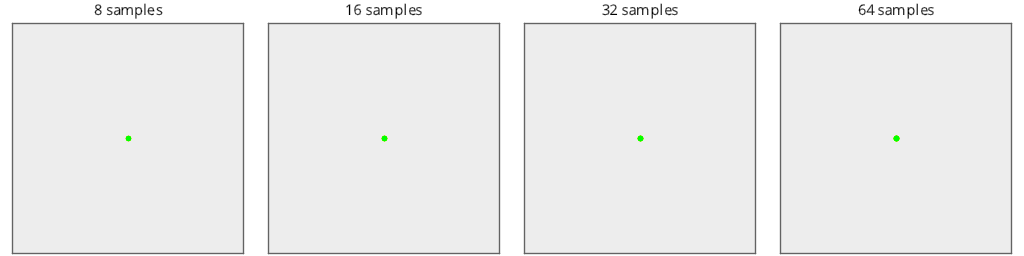
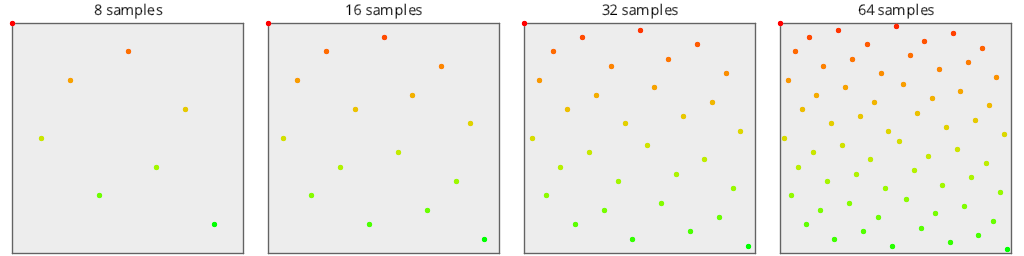
hammersley

diff --git a/src/families/_2d/samples/lds/LDS.cpp b/src/families/_2d/samples/lds/LDS.cpp
@@ -6,15 +6,52 @@ DATE: 3/4/2019
 
 #include "codegen.h"
 
-static size_t Ruler(size_t n)
+static void Hammersley(std::vector<Vec2>& values, size_t numValues, size_t truncateBits)
 {
-    size_t ret = 0;
-    while (n != 0 && (n & 1) == 0)
+    // figure out how many bits we are working in.
+    size_t value = 1;
+    size_t numBits = 0;
+    while (value < numValues)
     {
-        n /= 2;
-        ++ret;
+        value *= 2;
+        ++numBits;
     }
-    return ret;
+
+    // calculate the sample points
+    values.resize(numValues);
+    size_t sampleInt = 0;
+    for (size_t i = 0; i < numValues; ++i)
+    {
+        // x axis
+        values[i][0] = 0.0f;
+        {
+            size_t n = i >> truncateBits;
+            float base = 1.0f / 2.0f;
+            while (n)
+            {
+                if (n & 1)
+                    values[i][0] += base;
+                n /= 2;
+                base /= 2.0f;
+            }
+        }
+
+        // y axis
+        values[i][1] = 0.0f;
+        {
+            size_t n = i >> truncateBits;
+            size_t mask = size_t(1) << (numBits - 1 - truncateBits);
+
+            float base = 1.0f / 2.0f;
+            while (mask)
+            {
+                if (n & mask)
+                    values[i][1] += base;
+                mask /= 2;
+                base /= 2.0f;
+            }
+        }
+    }
 }
 
 static void Halton(std::vector<Vec2>& values, size_t numValues, size_t baseX, size_t baseY, bool skipZero = true)
@@ -54,6 +91,17 @@ static void Halton(std::vector<Vec2>& values, size_t numValues, size_t baseX, si
     }
 }
 
+static size_t Ruler(size_t n)
+{
+    size_t ret = 0;
+    while (n != 0 && (n & 1) == 0)
+    {
+        n /= 2;
+        ++ret;
+    }
+    return ret;
+}
+
 void _2d::Samples::LDS::Sobol(std::vector<Vec2>& values, size_t numValues, std::mt19937& rng)
 {
     // x axis
@@ -89,37 +137,42 @@ void _2d::Samples::LDS::Sobol(std::vector<Vec2>& values, size_t numValues, std::
 
 void _2d::Samples::LDS::Halton_2_3_Zero(std::vector<Vec2>& values, size_t numValues, std::mt19937& rng)
 {
-    values.resize(numValues);
     Halton(values, numValues, 2, 3, false);
 }
 
 void _2d::Samples::LDS::Halton_2_3(std::vector<Vec2>& values, size_t numValues, std::mt19937& rng)
 {
-    values.resize(numValues);
     Halton(values, numValues, 2, 3);
 }
 
 void _2d::Samples::LDS::Halton_5_7(std::vector<Vec2>& values, size_t numValues, std::mt19937& rng)
 {
-    values.resize(numValues);
     Halton(values, numValues, 5, 7);
 }
 
 void _2d::Samples::LDS::Halton_13_9(std::vector<Vec2>& values, size_t numValues, std::mt19937& rng)
 {
-    values.resize(numValues);
     Halton(values, numValues, 13, 9);
 }
 
 void _2d::Samples::LDS::Hammersley(std::vector<Vec2>& values, size_t numValues, std::mt19937& rng)
 {
-    // TODO: this!
-    values.resize(numValues, Vec2{ 0.5f, 0.5f });
+    ::Hammersley(values, numValues, 0);
+}
+
+void _2d::Samples::LDS::Hammersley_1Bit(std::vector<Vec2>& values, size_t numValues, std::mt19937& rng)
+{
+    ::Hammersley(values, numValues, 1);
+}
+
+void _2d::Samples::LDS::Hammersley_2Bits(std::vector<Vec2>& values, size_t numValues, std::mt19937& rng)
+{
+    ::Hammersley(values, numValues, 2);
 }
 
 void _2d::Samples::LDS::NRooks(std::vector<Vec2>& values, size_t numValues, std::mt19937& rng)
 {
-    // make N rooks that can't see eachother
+    // make N rooks that can't see each other on x or y axis
     std::vector<size_t> rookPositions(numValues, 0);
     for (size_t i = 0; i < numValues; ++i)
         rookPositions[i] = i;
@@ -132,9 +185,4 @@ void _2d::Samples::LDS::NRooks(std::vector<Vec2>& values, size_t numValues, std:
         values[i][0] = float(rookPositions[i]) / float(numValues - 1);
         values[i][1] = float(i) / float(numValues - 1);
     }
-
-    int ijkl = 0;
-    // TODO: should we add a half?
 }
-
-// TODO: sobol indexes out of range!

diff --git a/src/main.cpp b/src/main.cpp
@@ -33,6 +33,20 @@ int main(int argc, char **argv)
 /*
 TODOs:
 
+
+* I don't think hammersley bit truncation is working correctly.  In 8 samples, truncating 1 bit makes there be 4 unique samples.
+
+! hammersley: if you skip index 0, it doesn't help anything, because you then get the zero from the next sequence! This unless you do N-1 sample items, which is kind of weird and doesn't really help anything.
+
+? is hammerlsey ok with tests doing non power of 2 sample counts on it? i think probably not, but check it out.
+* 2d "plot average" test? could have "average distance from center". Could also just draw a line showing how it moves around the center.. unknown.
+
+* sobol indexes out of range! need to fix. true for 2d, not sure if true for 1d.
+* should N rooks add a half? i think so... i think it should be like regular centered offset for best results.
+
+* 2d plot test should project points down to x and y axis.
+ ? should we do 1d tests on those projections? i think probably yes.
+
 * add to todo for 2d tests:
  * radial power spectrum thing.
  * should randomized sequences go through multiple tests? or is radially averaging decent enough?

diff --git a/output/_2d/samples/lds/page.md b/output/_2d/samples/lds/page.md
@@ -6,6 +6,8 @@ Source Code: [src/families/_2d/samples/lds/](../../../../src/families/_2d/sample
  samples tested:
 * NRooks (Not Progressive, Randomized)
 * Hammersley (Not Progressive, Not Randomized)
+* Hammersley_1Bit (Not Progressive, Not Randomized)
+* Hammersley_2Bits (Not Progressive, Not Randomized)
 * Sobol (Progressive, Not Randomized)
 * Halton_2_3_Zero (Progressive, Not Randomized)
 * Halton_2_3 (Progressive, Not Randomized)
@@ -21,6 +23,16 @@ Source Code: [src/families/_2d/samples/lds/](../../../../src/families/_2d/sample
 ![Hammersley](../../../_2d/samples/lds/DFT_Hammersley.png)  
 ### Plot
 ![Hammersley](../../../_2d/samples/lds/MakePlot_Hammersley.png)  
+## Hammersley_1Bit
+### Discrete Fourier Transform
+![Hammersley_1Bit](../../../_2d/samples/lds/DFT_Hammersley_1Bit.png)  
+### Plot
+![Hammersley_1Bit](../../../_2d/samples/lds/MakePlot_Hammersley_1Bit.png)  
+## Hammersley_2Bits
+### Discrete Fourier Transform
+![Hammersley_2Bits](../../../_2d/samples/lds/DFT_Hammersley_2Bits.png)  
+### Plot
+![Hammersley_2Bits](../../../_2d/samples/lds/MakePlot_Hammersley_2Bits.png)  
 ## Sobol
 ### Discrete Fourier Transform
 ![Sobol](../../../_2d/samples/lds/DFT_Sobol.png)  

diff --git a/output/_2d/samples/lds/results.md b/output/_2d/samples/lds/results.md
@@ -2,6 +2,8 @@
  samples tested:
 * NRooks (Not Progressive, Randomized)
 * Hammersley (Not Progressive, Not Randomized)
+* Hammersley_1Bit (Not Progressive, Not Randomized)
+* Hammersley_2Bits (Not Progressive, Not Randomized)
 * Sobol (Progressive, Not Randomized)
 * Halton_2_3_Zero (Progressive, Not Randomized)
 * Halton_2_3 (Progressive, Not Randomized)
@@ -17,6 +19,16 @@
 ![Hammersley](../../../_2d/samples/lds/DFT_Hammersley.png)  
 ### Plot
 ![Hammersley](../../../_2d/samples/lds/MakePlot_Hammersley.png)  
+## Hammersley_1Bit
+### Discrete Fourier Transform
+![Hammersley_1Bit](../../../_2d/samples/lds/DFT_Hammersley_1Bit.png)  
+### Plot
+![Hammersley_1Bit](../../../_2d/samples/lds/MakePlot_Hammersley_1Bit.png)  
+## Hammersley_2Bits
+### Discrete Fourier Transform
+![Hammersley_2Bits](../../../_2d/samples/lds/DFT_Hammersley_2Bits.png)  
+### Plot
+![Hammersley_2Bits](../../../_2d/samples/lds/MakePlot_Hammersley_2Bits.png)  
 ## Sobol
 ### Discrete Fourier Transform
 ![Sobol](../../../_2d/samples/lds/DFT_Sobol.png)  

diff --git a/output/_2d/tests/plot/page.md b/output/_2d/tests/plot/page.md
@@ -18,6 +18,10 @@ Source Code: [/src/families/_2d/tests/plot/](../../../../src/families/_2d/tests/
 ![NRooks](../../../_2d/samples/lds/MakePlot_NRooks.png)  
 #### Hammersley
 ![Hammersley](../../../_2d/samples/lds/MakePlot_Hammersley.png)  
+#### Hammersley_1Bit
+![Hammersley_1Bit](../../../_2d/samples/lds/MakePlot_Hammersley_1Bit.png)  
+#### Hammersley_2Bits
+![Hammersley_2Bits](../../../_2d/samples/lds/MakePlot_Hammersley_2Bits.png)  
 #### Sobol
 ![Sobol](../../../_2d/samples/lds/MakePlot_Sobol.png)  
 #### Halton_2_3_Zero

diff --git a/output/_2d/tests/dft/page.md b/output/_2d/tests/dft/page.md
@@ -18,6 +18,10 @@ Source Code: [/src/families/_2d/tests/dft/](../../../../src/families/_2d/tests/d
 ![NRooks](../../../_2d/samples/lds/DFT_NRooks.png)  
 #### Hammersley
 ![Hammersley](../../../_2d/samples/lds/DFT_Hammersley.png)  
+#### Hammersley_1Bit
+![Hammersley_1Bit](../../../_2d/samples/lds/DFT_Hammersley_1Bit.png)  
+#### Hammersley_2Bits
+![Hammersley_2Bits](../../../_2d/samples/lds/DFT_Hammersley_2Bits.png)  
 #### Sobol
 ![Sobol](../../../_2d/samples/lds/DFT_Sobol.png)  
 #### Halton_2_3_Zero

diff --git a/output/_2d/tests/plot/results.md b/output/_2d/tests/plot/results.md
@@ -14,6 +14,10 @@
 ![NRooks](../../../_2d/samples/lds/MakePlot_NRooks.png)  
 #### Hammersley
 ![Hammersley](../../../_2d/samples/lds/MakePlot_Hammersley.png)  
+#### Hammersley_1Bit
+![Hammersley_1Bit](../../../_2d/samples/lds/MakePlot_Hammersley_1Bit.png)  
+#### Hammersley_2Bits
+![Hammersley_2Bits](../../../_2d/samples/lds/MakePlot_Hammersley_2Bits.png)  
 #### Sobol
 ![Sobol](../../../_2d/samples/lds/MakePlot_Sobol.png)  
 #### Halton_2_3_Zero

diff --git a/output/_2d/tests/dft/results.md b/output/_2d/tests/dft/results.md
@@ -14,6 +14,10 @@
 ![NRooks](../../../_2d/samples/lds/DFT_NRooks.png)  
 #### Hammersley
 ![Hammersley](../../../_2d/samples/lds/DFT_Hammersley.png)  
+#### Hammersley_1Bit
+![Hammersley_1Bit](../../../_2d/samples/lds/DFT_Hammersley_1Bit.png)  
+#### Hammersley_2Bits
+![Hammersley_2Bits](../../../_2d/samples/lds/DFT_Hammersley_2Bits.png)  
 #### Sobol
 ![Sobol](../../../_2d/samples/lds/DFT_Sobol.png)  
 #### Halton_2_3_Zero
